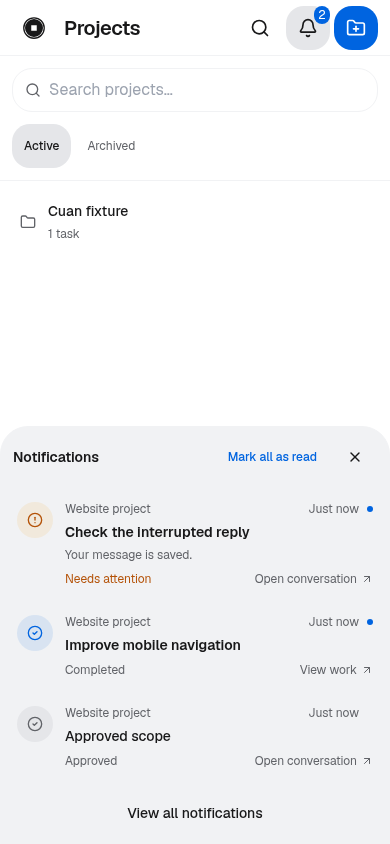
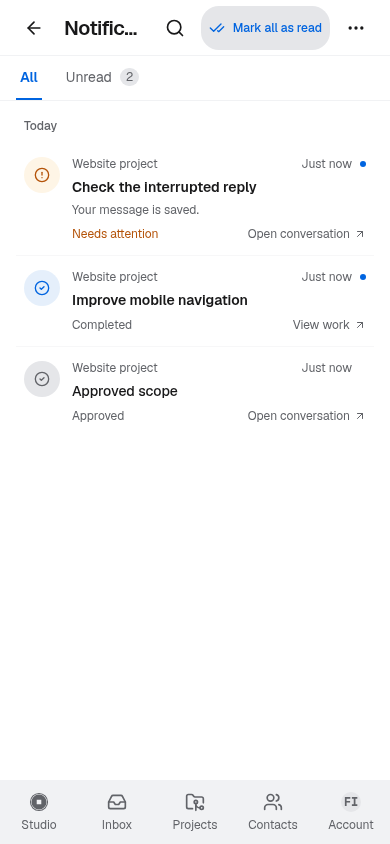
Open notifications directly on phones and retain desktop quick view

diff --git a/web/src/features/notifications/NotificationsPopover.tsx b/web/src/features/notifications/NotificationsPopover.tsx
@@ -39,7 +39,7 @@ export function NotificationsPopover() {
   const returnState = { notificationReturnTo: location.pathname+location.search+location.hash }
   return <>
     <button ref={trigger} type="button" className="icon-action relative" aria-label={t('Notifications')} aria-haspopup="dialog" aria-expanded={open} aria-controls={id} onClick={() => {
-      if (!panel.current?.showPopover) { navigate('/notifications', {state:returnState}); return }
+      if (window.matchMedia('(max-width: 767px)').matches || !panel.current?.showPopover) { navigate('/notifications', {state:returnState}); return }
       if (!open) void refresh()
       panel.current.togglePopover()
     }}>

diff --git a/docs/evidence/notification-popover/README.md b/docs/evidence/notification-popover/README.md
@@ -1,13 +1,14 @@
 ## Notification quick view
 
-The bell opens an anchored native popover on desktop/tablet and a bottom panel
-on phones, without leaving the current page. It previews up to six notifications
+The bell opens an anchored native popover on desktop/tablet without leaving the current page. On phones below768px,
+the bell opens the full notification page directly. Its Back action returns to
+the originating route. It previews up to six notifications
 using the same rows as the full page. Mark all as read is directly visible in
 both panel and full-page headers. View all opens the shareable full notifications
 page, whose Back action returns to the originating route. Older browsers without
 the native Popover API retain direct navigation to the full page.
 
-Native light-dismiss and Escape close the panel. Heading focus announces the
+On desktop/tablet, native light-dismiss and Escape close the panel. Heading focus announces the
 panel and focus returns to the bell when dismissed from inside. Standard Tab
 navigation is preserved; this is a nonmodal quick view. Loading, empty and retry
 states are supported. Failed mark-read keeps unread state and an actionable error;
@@ -31,3 +32,11 @@ excluded),878 account profile files,11 notification read flags and non-feed
 preferences remain unchanged. No production mark-read action, task launch or
 provider inference was used for verification. See
 `../project-task-ui/production.json` and `../project-task-ui/release.json`.
+
+## Mobile follow-up
+
+Following the user’s mobile navigation preference, phones now open the full page
+directly rather than a bottom sheet. The updated390px light/dark fixtures verify
+one-tap navigation, directly visible Mark all as read, no overflow and Back to the
+originating page. Tablet/desktop quick-view behavior and failure/read-state
+checks continue to pass. This is a follow-up to the initiale70ade0 release.

diff --git a/docs/guides/notifications.md b/docs/guides/notifications.md
@@ -22,8 +22,9 @@ device is generic; project and conversation context is shown inside Cuan.
 
 ## Quick view
 
-Select the bell to preview recent notifications without leaving the current page.
-The panel sits near the bell on desktop and opens from the bottom on mobile.
+On desktop and tablet, select the bell to preview recent notifications without
+leaving the current page. On mobile, the bell opens the full notification page
+directly; use Back to return to the page you came from.
 Use **Mark all as read** directly in its header, or **View all notifications** for
 the full page. Escape, the close button or clicking outside dismisses the panel.
 The full page also exposes **Mark all as read** directly. If saving read state
